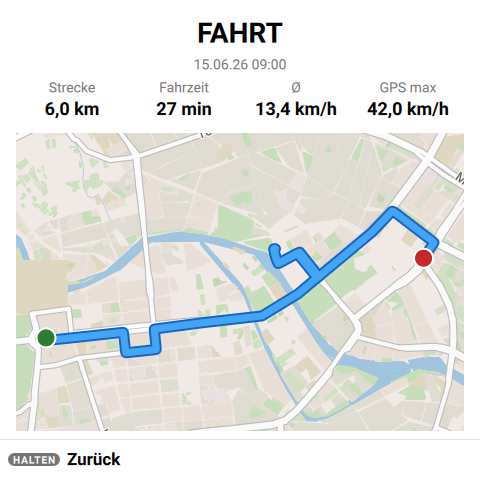
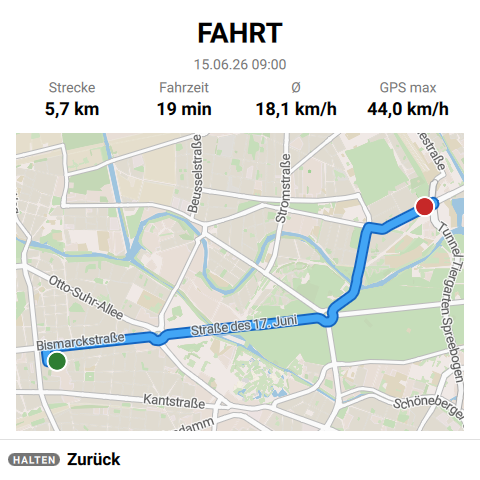
docs: replace trip history screenshots and version release PDF filenames

diff --git a/source/build.py b/source/build.py
@@ -295,7 +295,7 @@ def discover_languages():
     return langs
 
 
-def build_one(lang, target, out_dir, chrome, previews=True, strict=False):
+def build_one(lang, target, out_dir, chrome, previews=True, strict=False, version=None):
     lang_dir = SRC / lang
     cfg = json.loads((lang_dir / "lang.json").read_text(encoding="utf-8"))
     src = load_source(lang_dir, cfg, target)
@@ -320,7 +320,12 @@ def build_one(lang, target, out_dir, chrome, previews=True, strict=False):
 
     doc, npages, fignum, missing, leftovers = build_html(src, lang_dir, cfg)
     html_name = f"{lang}-{target}.html"
-    pdf_name = cfg["pdf_name"] if target == "full" else cfg["sample_pdf_name"]
+    base_pdf_name = cfg["pdf_name"] if target == "full" else cfg["sample_pdf_name"]
+    if version:
+        stem, ext = os.path.splitext(base_pdf_name)
+        pdf_name = f"{stem}-{version}{ext}"
+    else:
+        pdf_name = base_pdf_name
     html_file = html_dir / html_name
     html_file.write_text(doc, encoding="utf-8")
     forb, words = text_checks(doc)
@@ -414,6 +419,7 @@ def main():
     parser.add_argument("--out-dir", default="dist", help="Output directory relative to repo root")
     parser.add_argument("--no-previews", action="store_true", help="Skip PNG preview rendering")
     parser.add_argument("--strict", action="store_true", help="Fail on any layout, ref, text or font issue")
+    parser.add_argument("--version", default=None, help="Optional version suffix for output PDF filenames (e.g. 1.4.3)")
     args = parser.parse_args()
 
     target_map = {"gesamt": ["full"], "full": ["full"], "muster": ["sample"], "sample": ["sample"], "all": ["full", "sample"]}
@@ -428,7 +434,7 @@ def main():
 
     for lang in langs:
         for t in targets:
-            build_one(lang, t, out_dir, chrome, previews=not args.no_previews, strict=args.strict)
+            build_one(lang, t, out_dir, chrome, previews=not args.no_previews, strict=args.strict, version=args.version)
 
 
 if __name__ == "__main__":

diff --git a/inputs/screenshots/README.md b/inputs/screenshots/README.md
@@ -2,7 +2,7 @@
 
 Beide Bilder zeigen das vollständige 480 × 480 Fenster von ScootUI im Simulator. Grundlage ist der in Stable 1.4.3 gepinnte öffentliche Stand [scootui-qt `9db25f53`](https://github.com/librescoot/scootui-qt/tree/9db25f53db2e8675e198fb28413693d956b6da6d). Die Anwendung lief mit XCB und OpenGL unter Xvfb, mit isoliertem Redis und dem produktionsnah gepatchten QMapLibre. Die Uhr des Aufnahmeprozesses war auf 15. Juni 2026, 10:08 Uhr gestellt. Die Bilder wurden direkt aus dem Dashboard-Fenster aufgenommen.
 
-- `fahrtenbuch-1.4.3-de.png` / `trip-history-1.4.3-en.png`: synthetische Fahrt vom selben Tag um 09:00 Uhr, 6,0 km in 27 Minuten. Die Spur folgt einer Beispielroute in Berlin mit Kartendaten von [OpenStreetMap-Mitwirkenden](https://www.openstreetmap.org/copyright). Die Karte verwendet lokale Vektorkacheln; Start und Ende sind unterscheidbar. Weder Route noch Statistik beschreiben eine tatsächliche Fahrt.
+- `fahrtenbuch-1.4.3-de.png` / `trip-history-1.4.3-en.png`: synthetische Fahrt vom 15. Juni 2026 um 09:00 Uhr, 5,7 km in 19 Minuten (Ø 18,1 km/h, GPS max 44,0 km/h). Die Spur folgt der eingebauten Berliner Testroute (`route1`, Charlottenburg über Bismarckstraße und Straße des 17. Juni nach Moabit) mit Kartendaten von [OpenStreetMap-Mitwirkenden](https://www.openstreetmap.org/copyright). Die Karte verwendet lokale Vektorkacheln; Start und Ende sind unterscheidbar. Weder Route noch Statistik beschreiben eine tatsächliche Fahrt.
 - `doctor-1.4.3-de.png` / `doctor-1.4.3-en.png`: Das echte Dashboard zeigt zwei synthetische Doctor-Antworten mit jeweils sechs erfolgreichen Prüfungen. Die Ergebnisse stammen nicht von einem Fahrzeug. Die Diagnoseprozesse waren für die Aufnahme durch lokale Testantworten ersetzt; der SSH-Aufruf war isoliert und konnte kein Fahrzeug erreichen.
 - `cluster-parked-dark-en.png`: Englisches Dashboard im Parkmodus (dunkles Design, 10:08 Uhr, zwei synthetische Fahrakkus 80 % und 75 %, keine aktiven Fehler).
 - `navigation-1.4.3-de.png` / `navigation-1.4.3-en.png`: Aktive 3D-Navigation im hellen Design entlang der eingebauten Berliner Simulator-Testroute (`route2`, 28 km/h in Fahrtrichtung Spandauer Straße Richtung Anna-Louisa-Karsch-Straße, 10:08 Uhr, konsistente ETA 10:18 Uhr, lokale Vektorkacheln, OpenStreetMap-Daten).

diff --git a/README.md b/README.md
@@ -32,7 +32,7 @@ Requirements:
 Build all languages and run strict checks:
 
 ```sh
-python3 source/build.py --lang all --strict
+python3 source/build.py --lang all --strict --version 1.4.3
 ```
 
 Build a single language or target:
